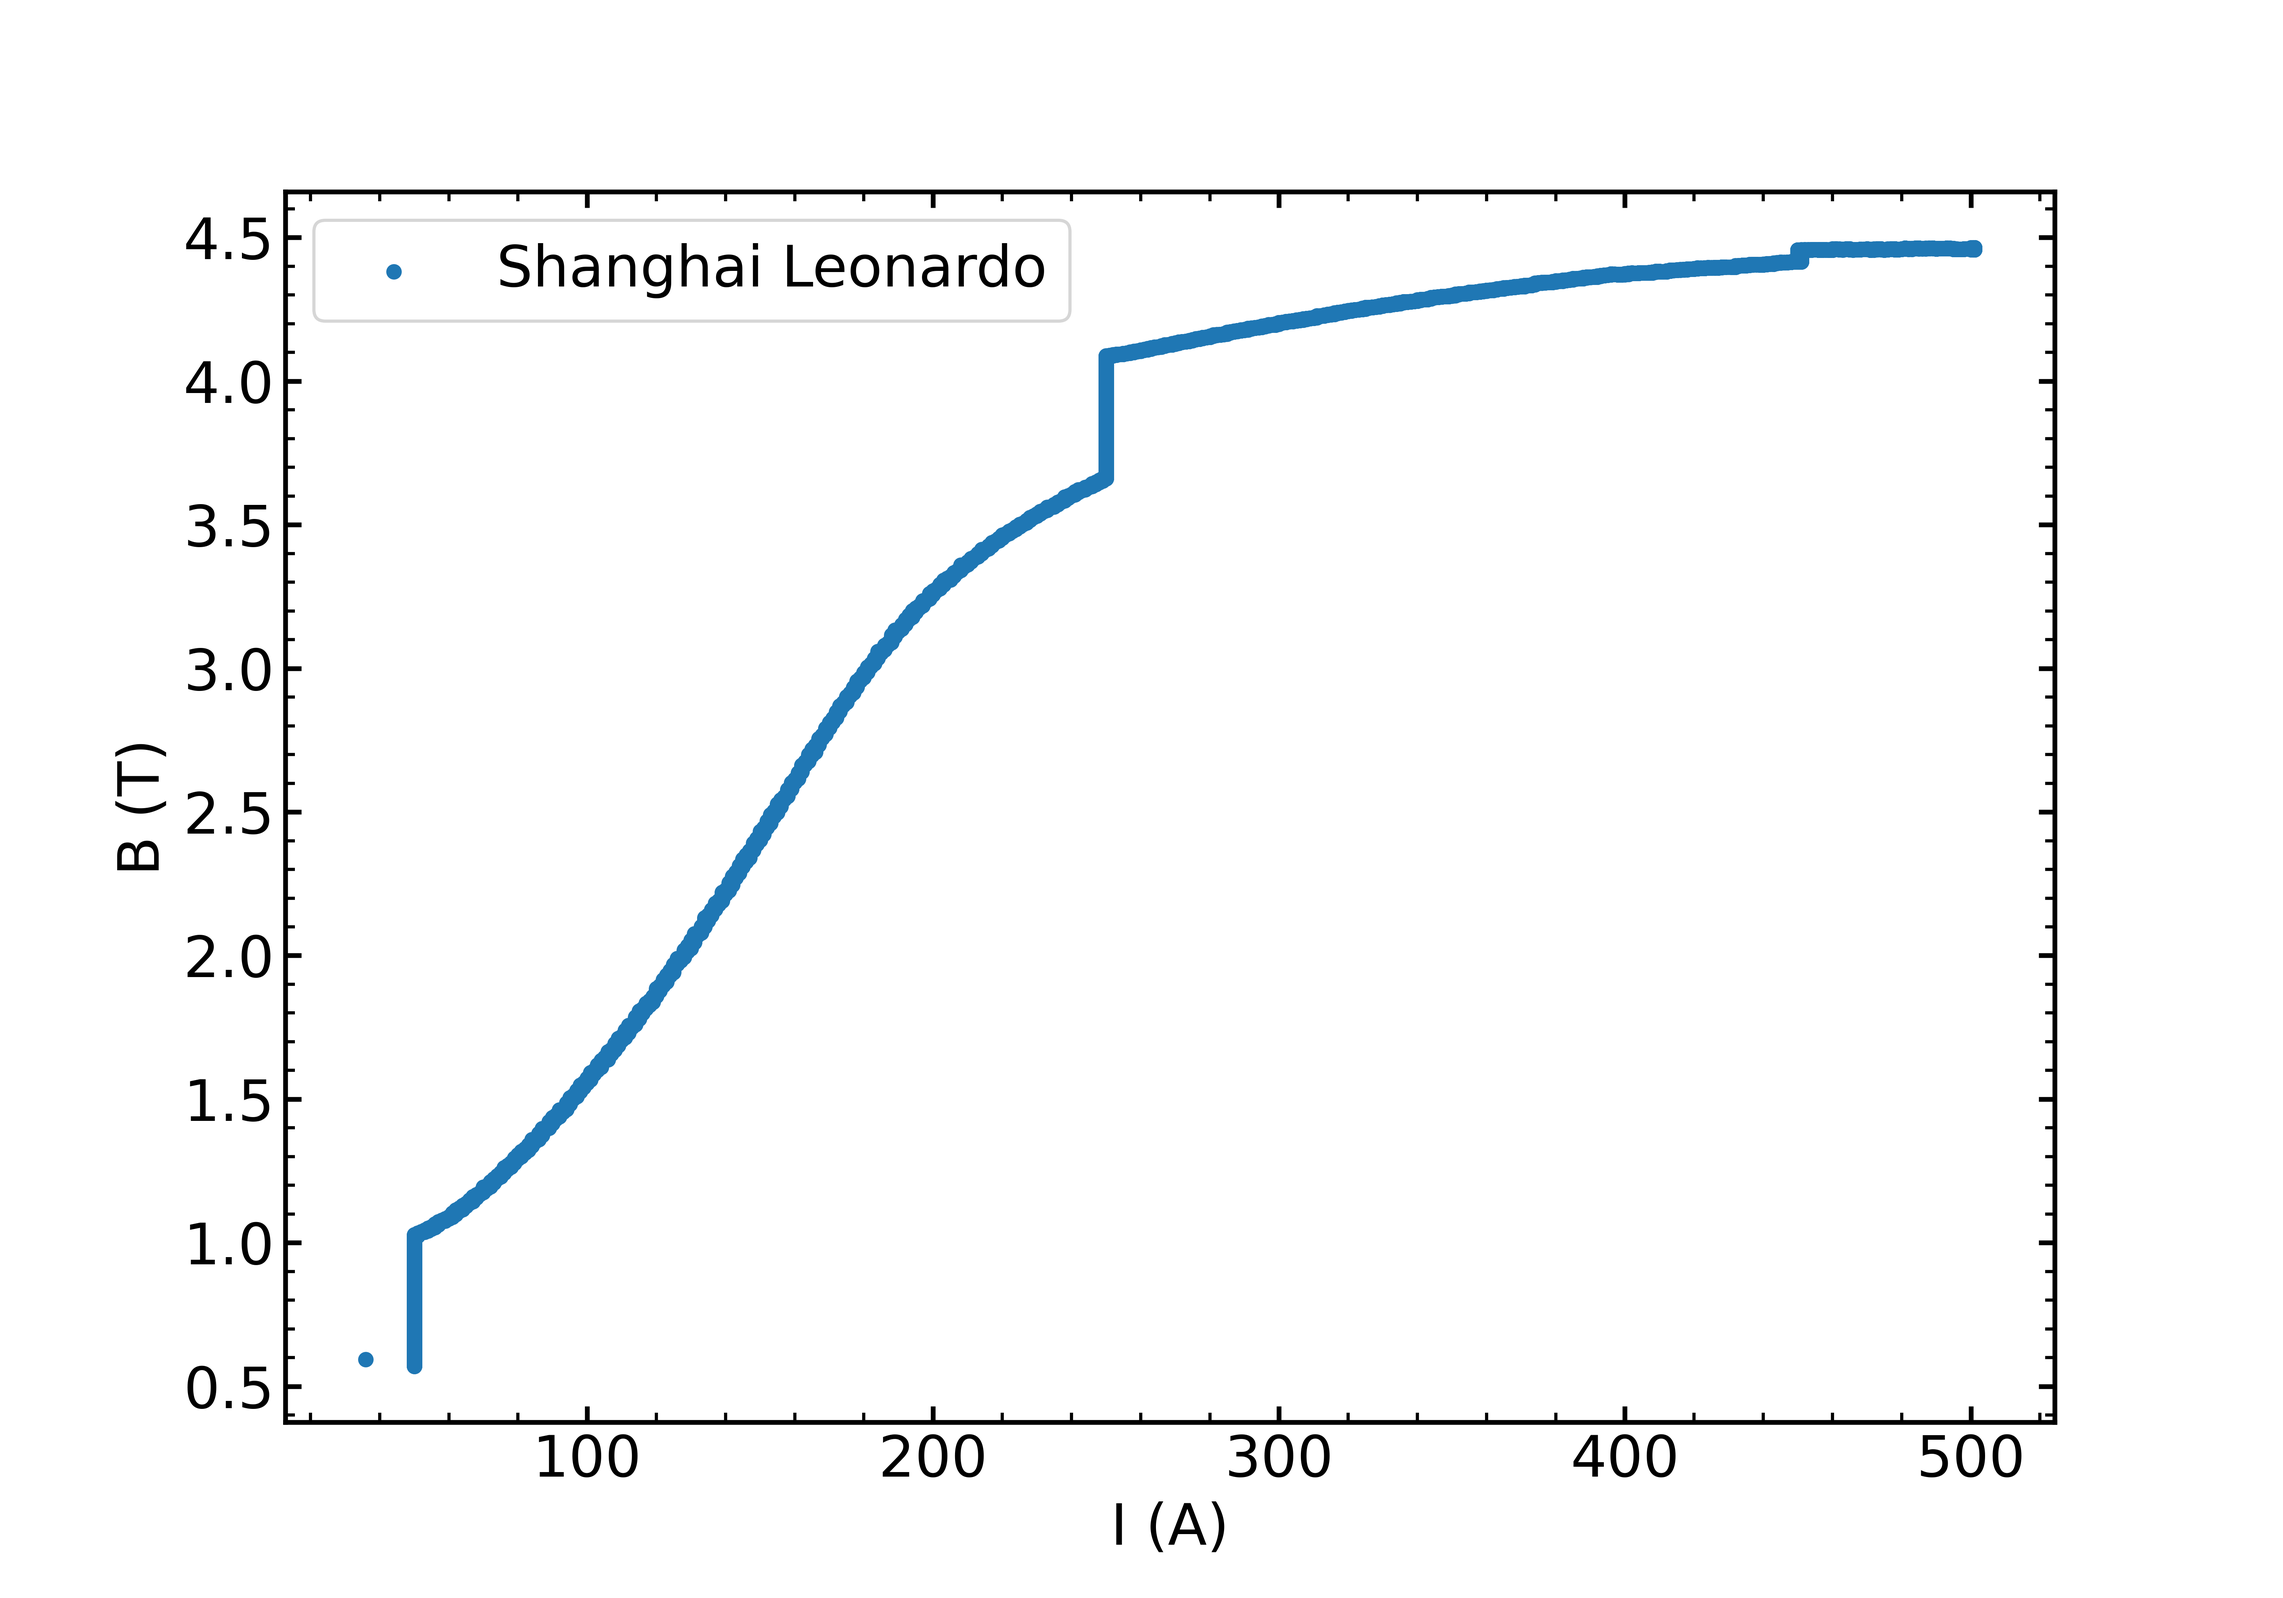
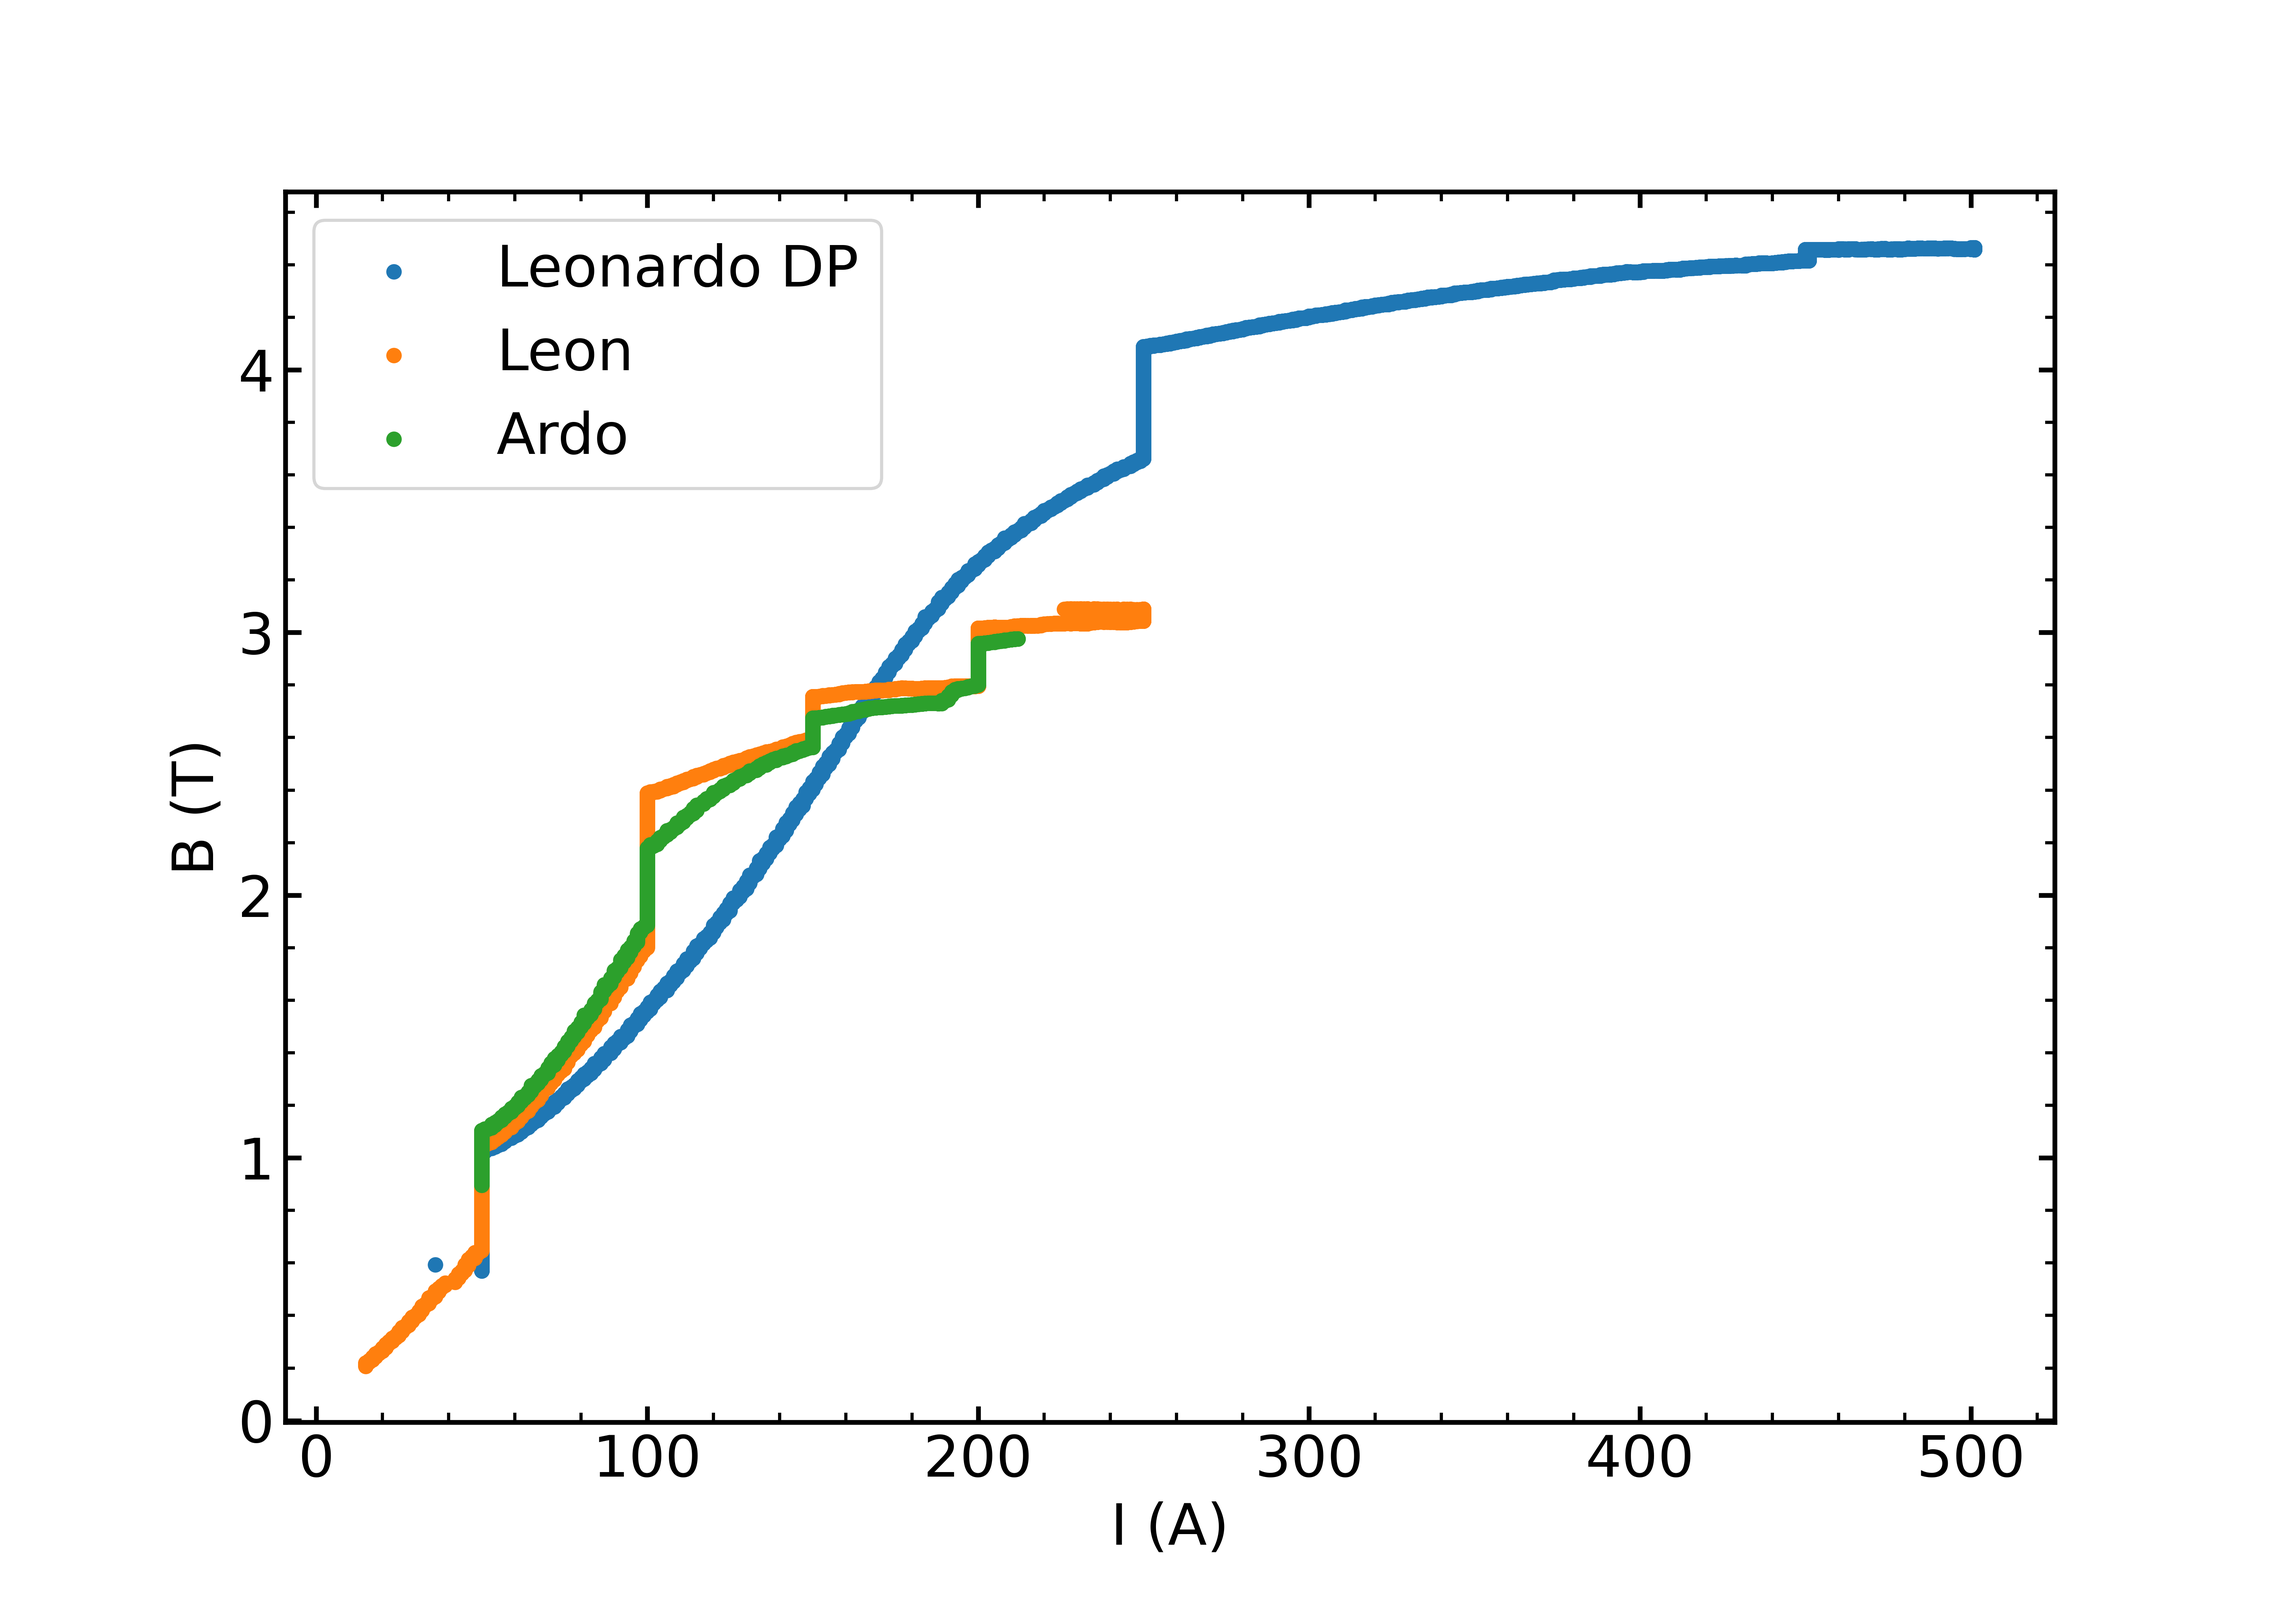
add: voltage plot overlay and style params.

diff --git a/clean_data.py b/clean_data.py
@@ -60,9 +60,9 @@ def filter_and_plot(file_path, column, min_time, max_time, window_size=51, polyo
     plt.show()
 
 # Example usage
-file_path = '/Users/fionnferreira/Library/CloudStorage/GoogleDrive-fionnferreira@gmail.com/My Drive/Barnes Group/Magnets/Mgn_JSFF_b/Mgn_JSFF_HeShanghai_Leonardo_022125_b_processed'
+file_path = '/Users/fionnferreira/Library/CloudStorage/GoogleDrive-fionnferreira@gmail.com/My Drive/Barnes Group/Magnets/Leonardo_2/Mgn_JSFF_HeShanghai_Leonardo_2_022425_processed'
 column = 'CH9(Hall sensor 1)'
-min_time = 00
-max_time = 375
+min_time = 0
+max_time = 120
 
 filter_and_plot(file_path, column, min_time, max_time)

diff --git a/overlay_current.py b/overlay_current.py
@@ -82,11 +82,13 @@ def overlay_plots(base_path, folder_labels, hall_sensor_col, current_col, plot_t
 # Example usage
 base_path = '/Users/fionnferreira/Library/CloudStorage/GoogleDrive-fionnferreira@gmail.com/My Drive/Barnes Group/Magnets'
 folder_labels = {
-    'Mgn_JSFF_b': 'Shanghai Leonardo',
+    'Mgn_JSFF_b': '(i + ii)',
+    'Leonardo_1': '(i)',
+    'Leonardo_2': '(ii)',
 }
 hall_sensor_col = 'CH9(Hall sensor 1)'
 current_col = 'Magna_1_current'
 plot_title = ''
-plot_name = 'Mgn_JSFF_b'
+plot_name = 'i & ii & i + ii'
 
 overlay_plots(base_path, folder_labels, hall_sensor_col, current_col, plot_title)
